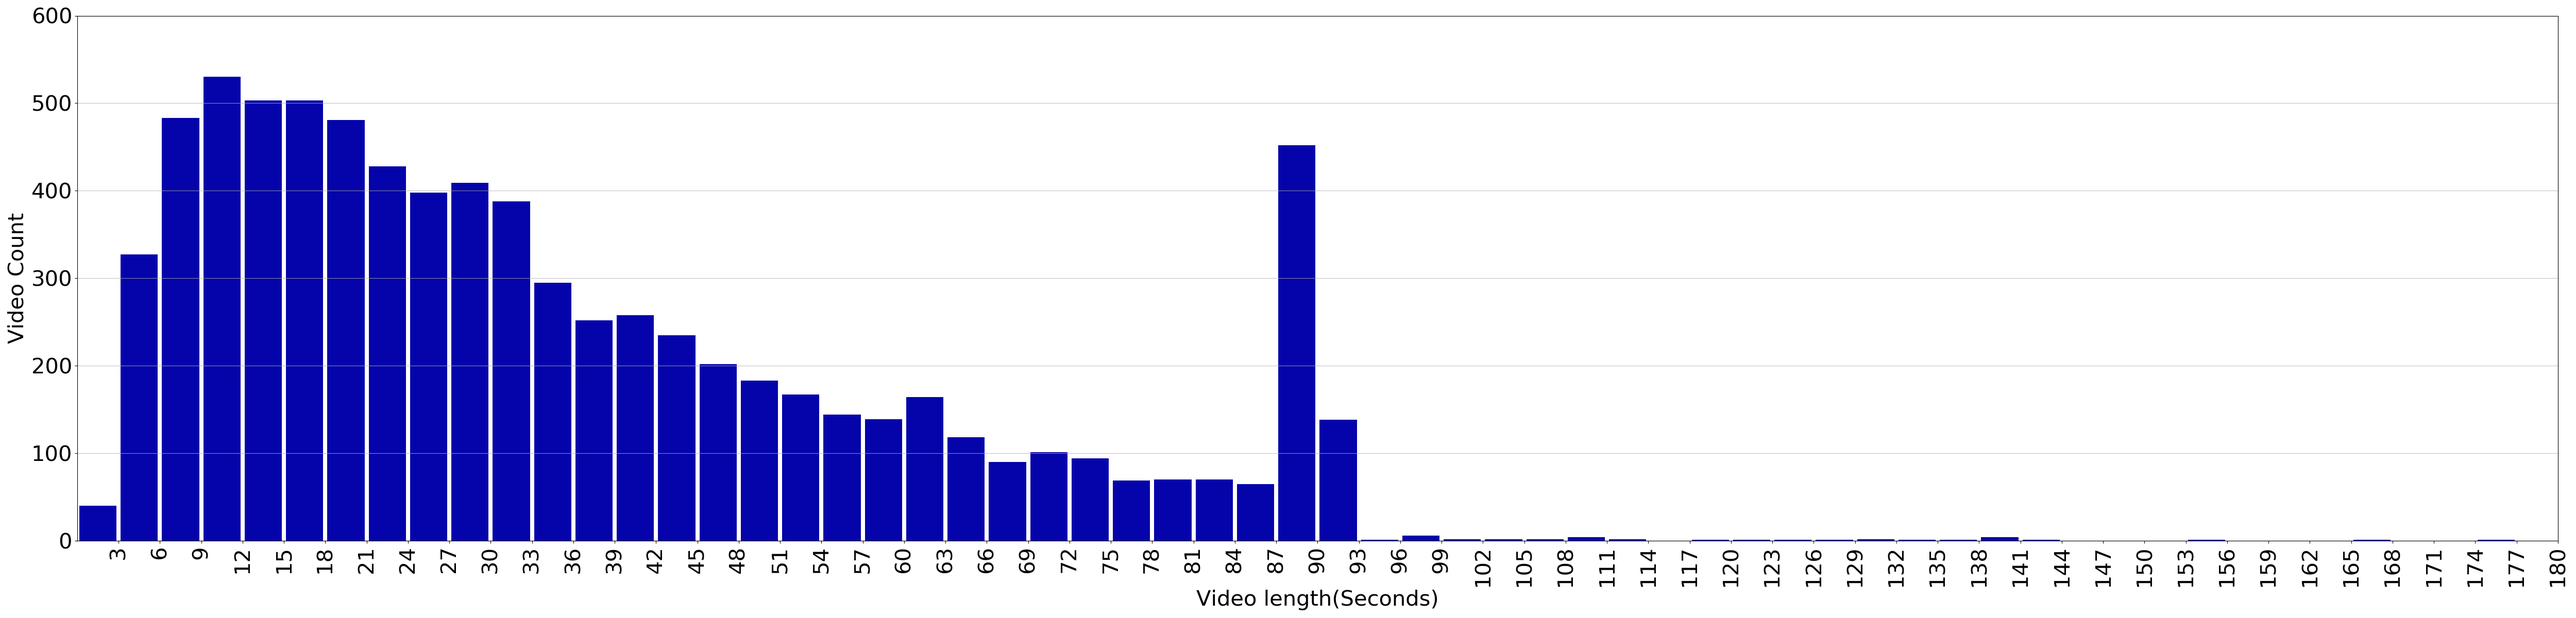
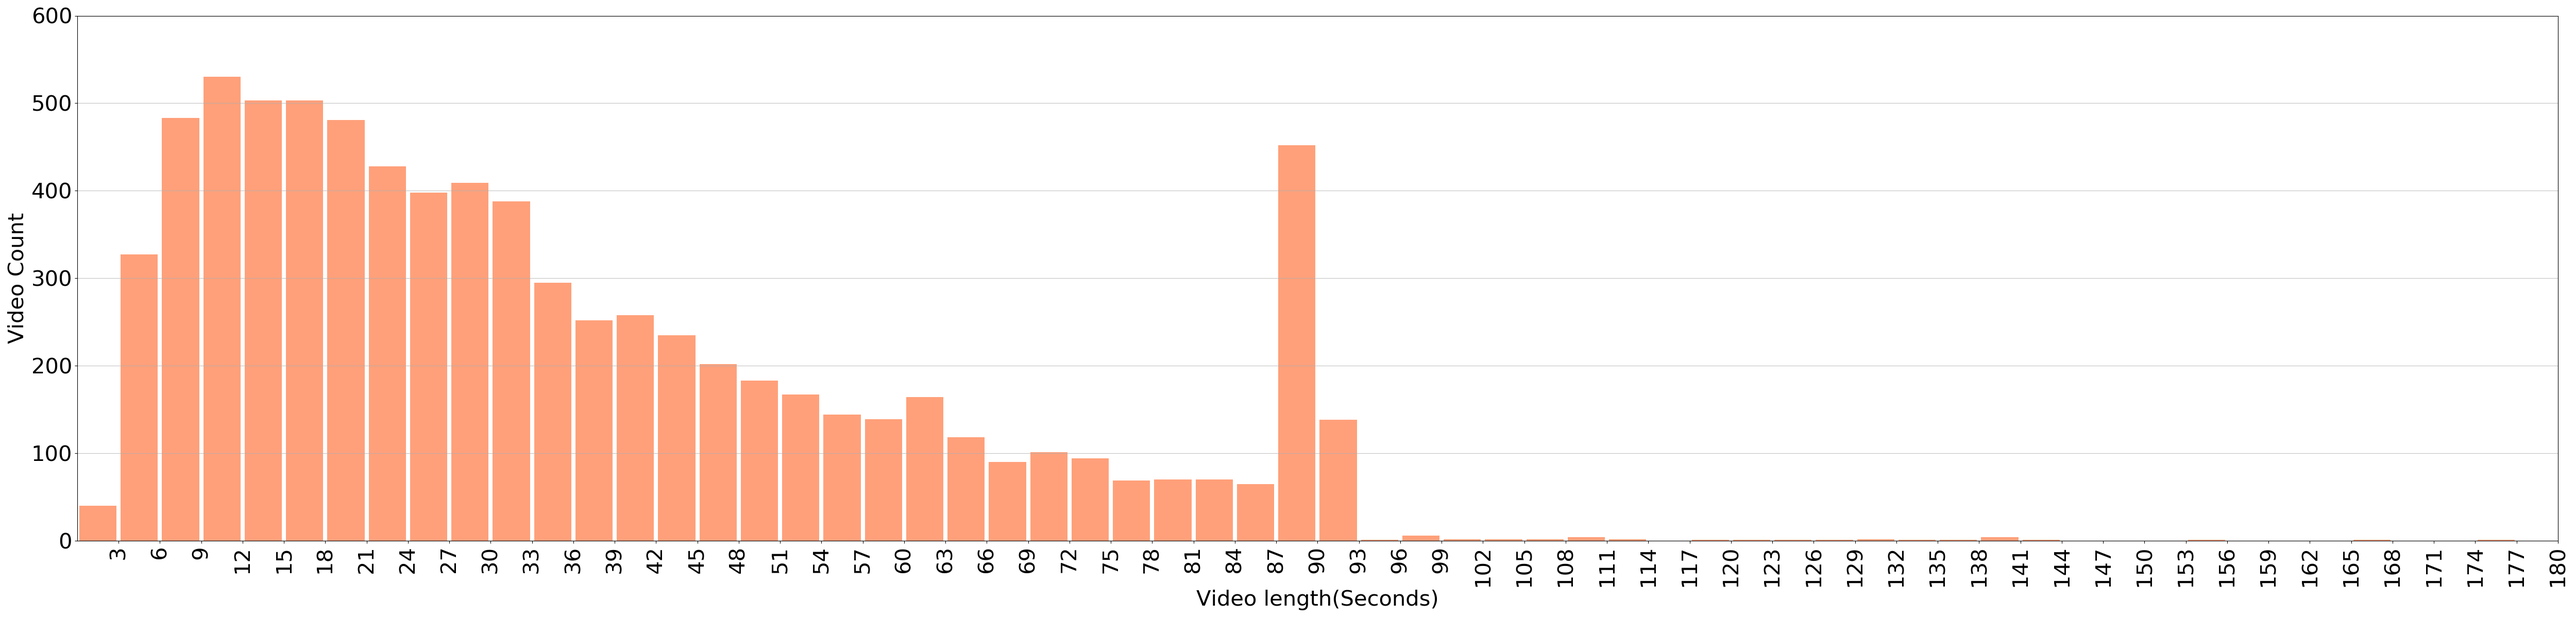
modify color

Changed region(s): [[0.0312, 0.1233, 0.5616, 0.8942], [0.5928, 0.8633, 0.624, 0.8942]]

diff --git a/utils/visualization.py b/utils/visualization.py
@@ -327,7 +327,7 @@ def statistic_vid_length(generate=False):
     plt.hist(vid_length_count_list,
              np.arange(0, 180, 3),
              histtype='bar',
-             color='#0504aa',
+             color='#FFA07A',
              rwidth=0.9)
     plt.grid(axis='y', alpha=0.75)
     plt.xlabel('Video length(Seconds)', fontsize=fontsize)
